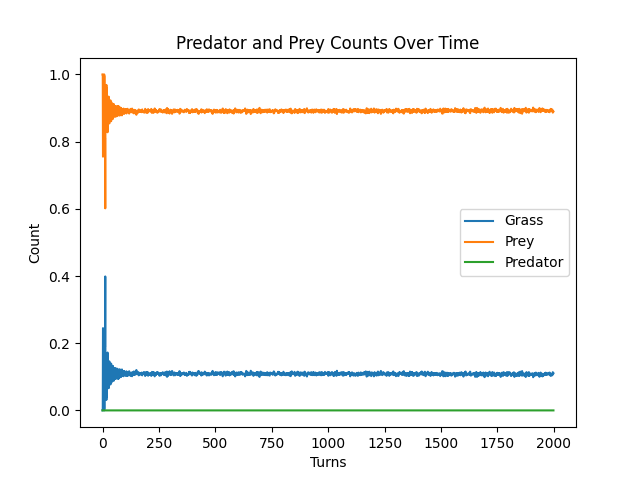
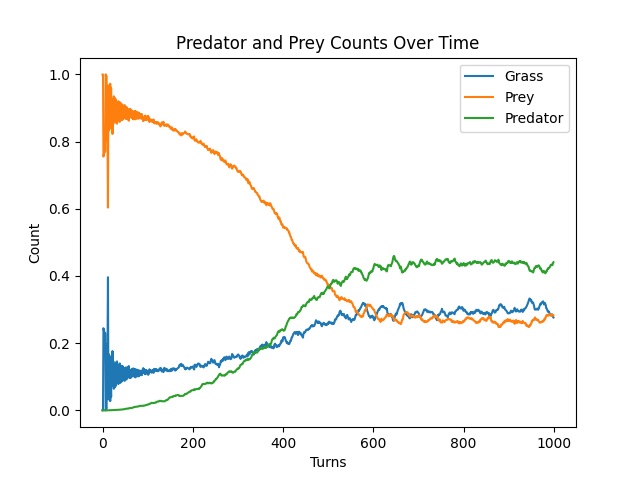
Added some plts

diff --git a/src/engine.py b/src/engine.py
@@ -3,9 +3,9 @@ import sys
 random.seed(None)
 
 # Initial distribution
-prey_prob = 0.999
-predator_prob = 0.0005
-grass_prob = 0.0005
+prey_prob = 0.9999
+predator_prob = 0.00005
+grass_prob = 0.00005
 mutation_prob = 0.02
 
 # Check that probabilities sum to 1

diff --git a/src/main.py b/src/main.py
@@ -5,7 +5,7 @@ from datetime import datetime
 def main():
 
     game_map = pps.Map()    
-    num_turns = 2000
+    num_turns = 1000
 
     prey_counts = []
     predator_counts = []
